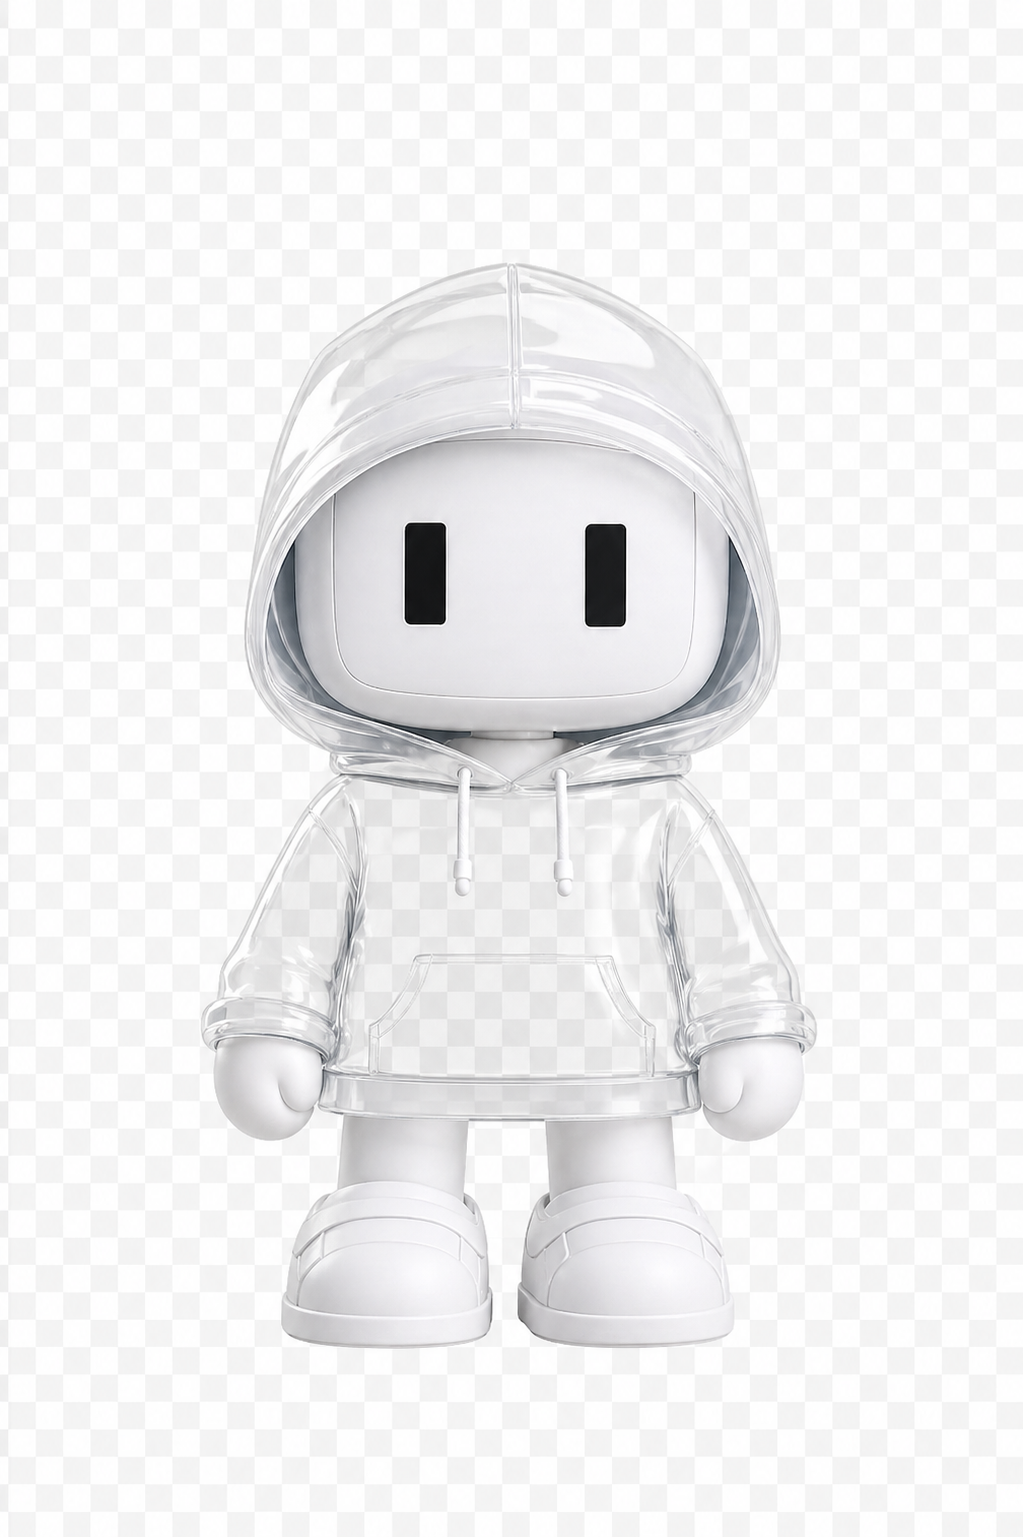
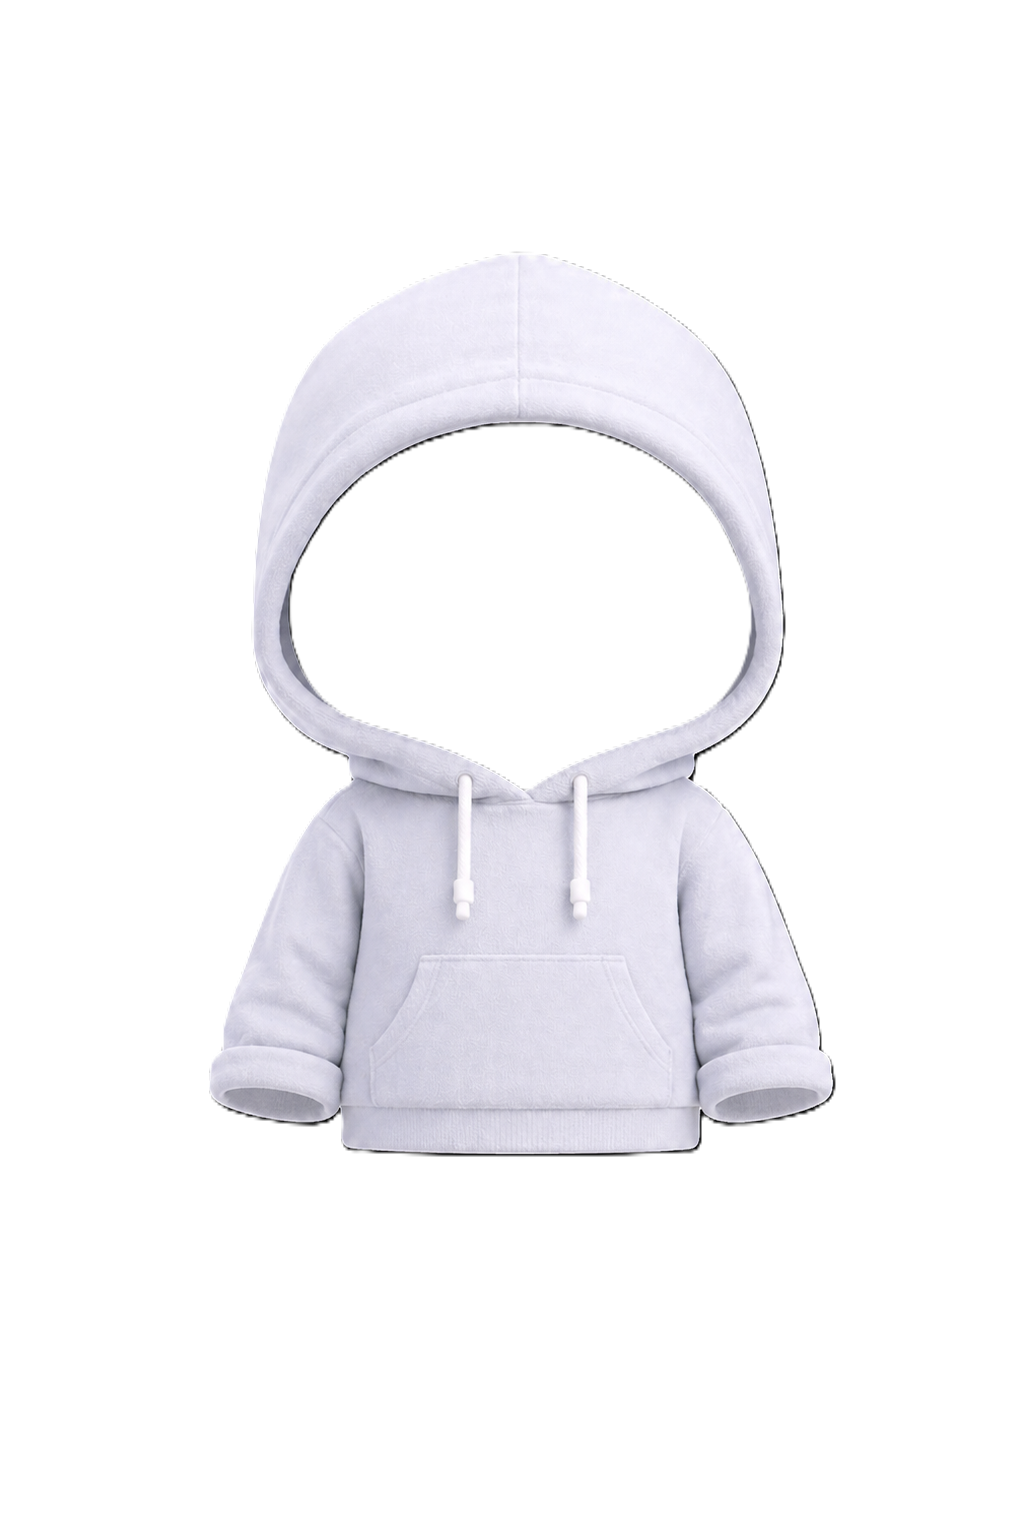
feat(dashboard): 웹캠 초기 숨김 및 눈 아이콘 토글 기능 추가
chore(public): 불필요한 기본 이미지 파일 삭제

Changed region(s): [[0.1818, 0.2186, 0.8182, 0.9057], [0.3636, 0.1561, 0.6667, 0.2498]]

diff --git a/anjava/app/dashboard/page.tsx b/anjava/app/dashboard/page.tsx
@@ -69,6 +69,7 @@ export default function DashboardPage() {
   const [darkMode, setDarkMode] = useState(false);
   const [darkPending, setDarkPending] = useState(false);
   const [badges, setBadges] = useState<ApiBadge[]>([]);
+  const [webcamVisible, setWebcamVisible] = useState(false);
 
   async function toggleDarkDetection(next: boolean) {
     if (darkPending) return;
@@ -252,9 +253,38 @@ export default function DashboardPage() {
                 <div className="text-xs font-bold text-zinc-900">실시간 카메라</div>
                 <div className="mt-0.5 text-[10px] text-zinc-400">자세 감지가 진행 중입니다.</div>
               </div>
+              <button
+                onClick={() => setWebcamVisible((v) => !v)}
+                className="flex h-6 w-6 items-center justify-center rounded-full text-zinc-400 transition hover:text-[#2563EB]"
+                aria-label={webcamVisible ? "카메라 숨기기" : "카메라 보기"}
+              >
+                {webcamVisible ? (
+                  <svg width="16" height="16" viewBox="0 0 24 24" fill="none" stroke="currentColor" strokeWidth="1.8" strokeLinecap="round" strokeLinejoin="round">
+                    <path d="M1 12s4-8 11-8 11 8 11 8-4 8-11 8-11-8-11-8z" />
+                    <circle cx="12" cy="12" r="3" />
+                  </svg>
+                ) : (
+                  <svg width="16" height="16" viewBox="0 0 24 24" fill="none" stroke="currentColor" strokeWidth="1.8" strokeLinecap="round" strokeLinejoin="round">
+                    <path d="M17.94 17.94A10.07 10.07 0 0 1 12 20c-7 0-11-8-11-8a18.45 18.45 0 0 1 5.06-5.94M9.9 4.24A9.12 9.12 0 0 1 12 4c7 0 11 8 11 8a18.5 18.5 0 0 1-2.16 3.19m-6.72-1.07a3 3 0 1 1-4.24-4.24" />
+                    <line x1="1" y1="1" x2="23" y2="23" />
+                  </svg>
+                )}
+              </button>
             </div>
-            <div className="mt-2 aspect-video w-full overflow-hidden rounded-xl">
+            <div className="relative mt-2 aspect-video w-full overflow-hidden rounded-xl">
               <WebcamView />
+              {!webcamVisible && (
+                <div
+                  className="absolute inset-0 flex cursor-pointer flex-col items-center justify-center gap-2 bg-zinc-900/60 backdrop-blur-md"
+                  onClick={() => setWebcamVisible(true)}
+                >
+                  <svg width="28" height="28" viewBox="0 0 24 24" fill="none" stroke="white" strokeWidth="1.5" strokeLinecap="round" strokeLinejoin="round" className="opacity-70">
+                    <path d="M1 12s4-8 11-8 11 8 11 8-4 8-11 8-11-8-11-8z" />
+                    <circle cx="12" cy="12" r="3" />
+                  </svg>
+                  <span className="text-[11px] text-white/60">클릭하여 카메라 보기</span>
+                </div>
+              )}
             </div>
           </Card>
 